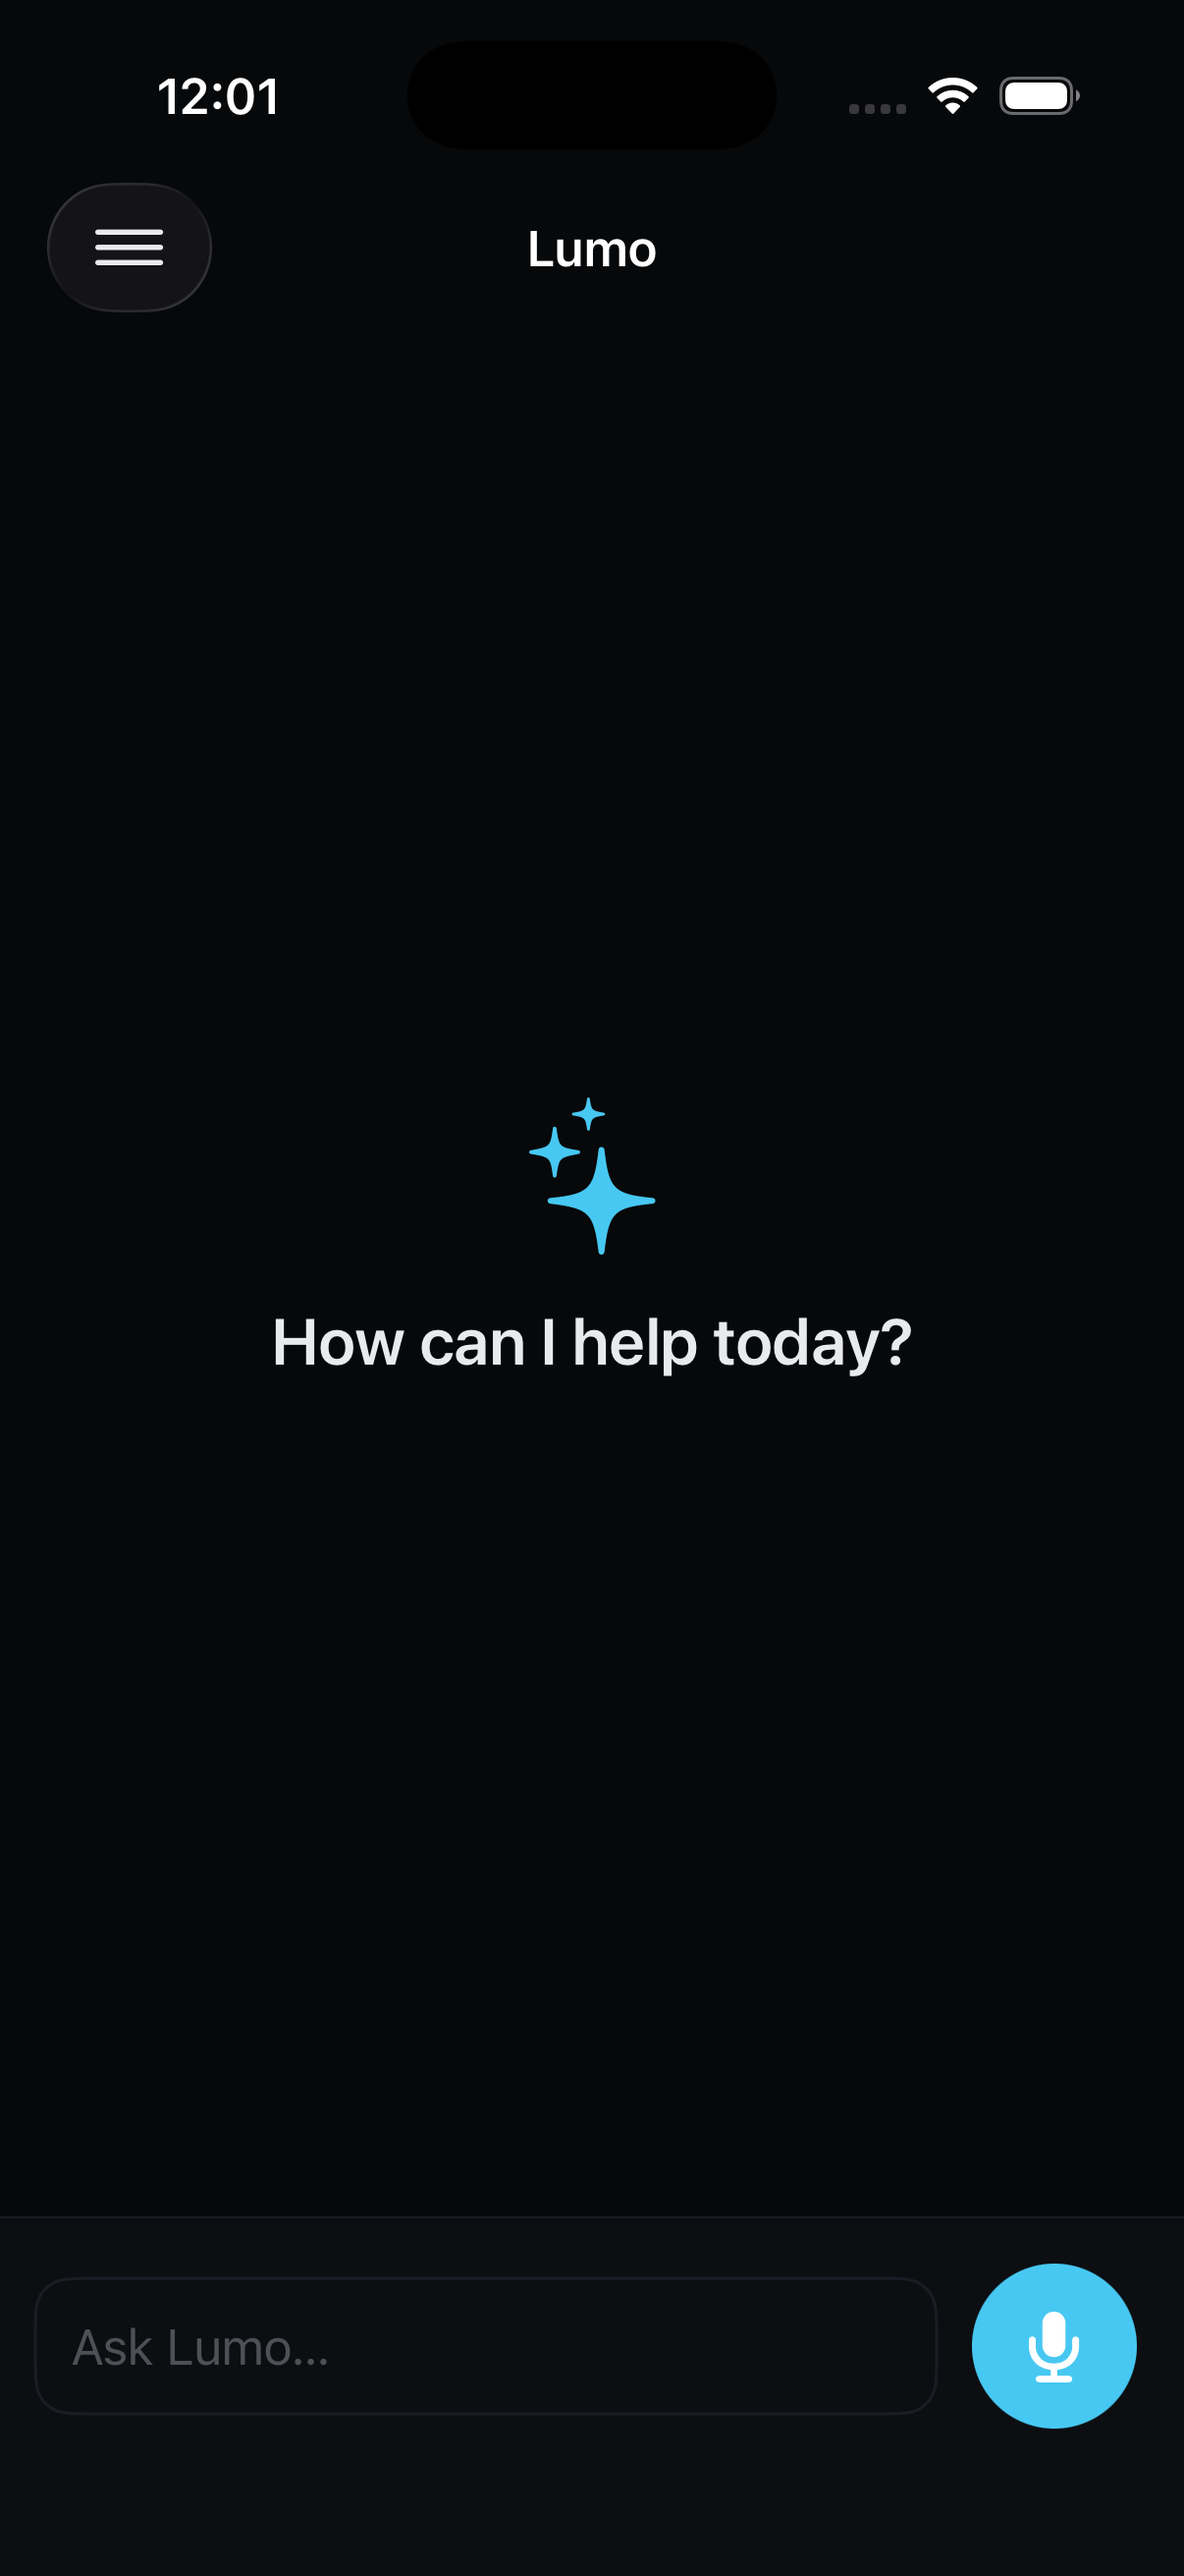
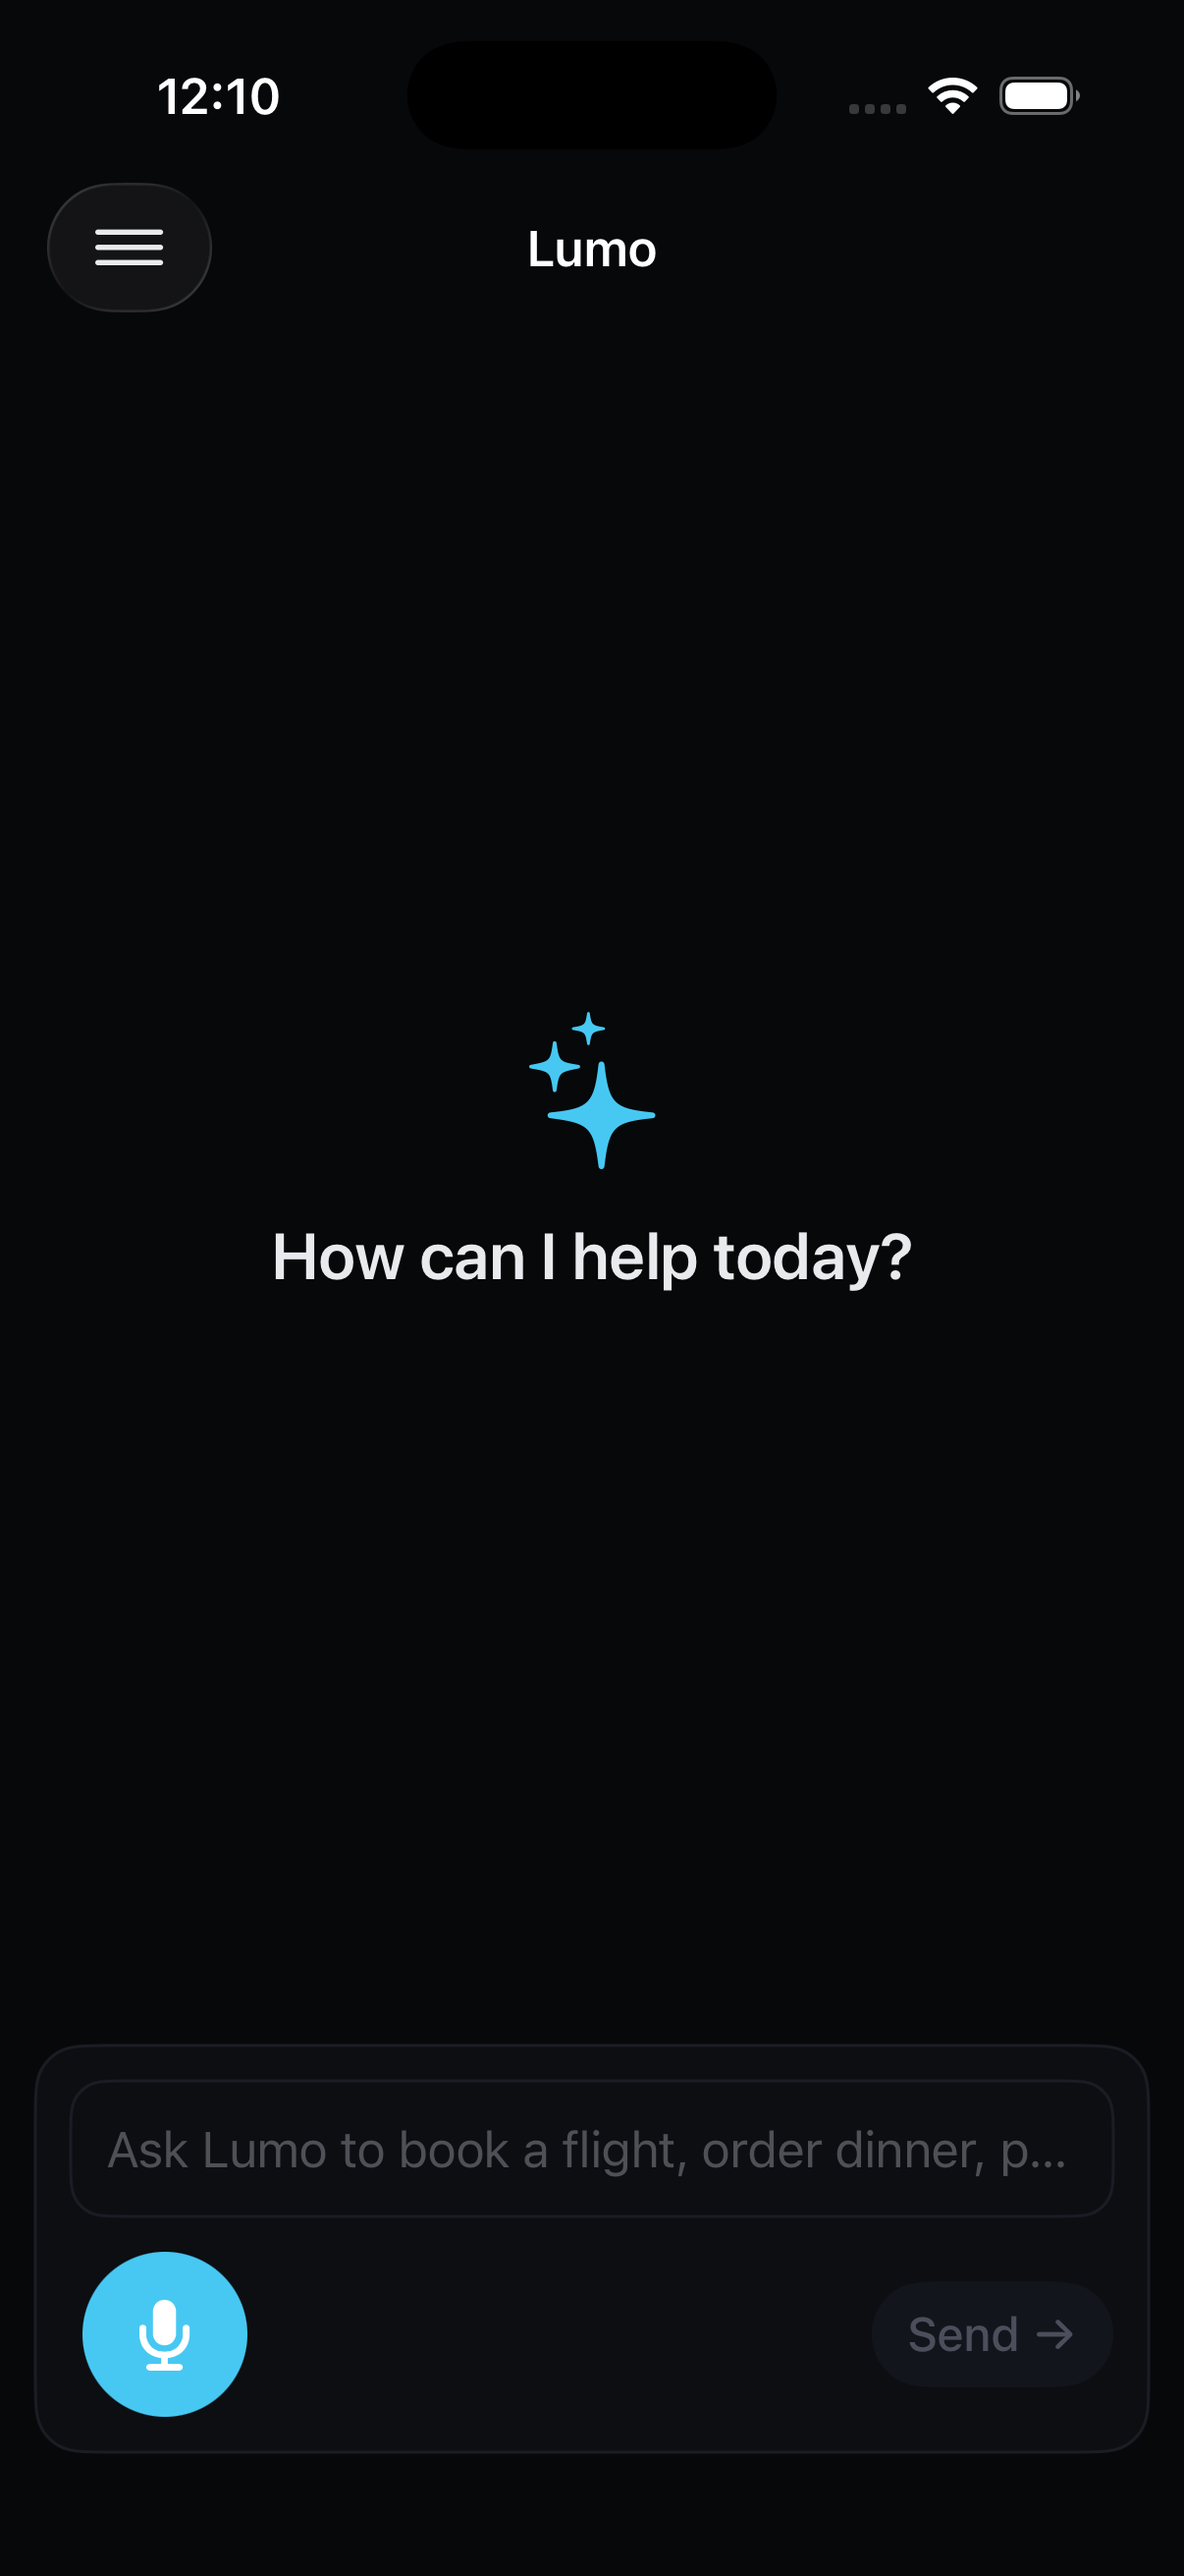
feat(ios): typographic message style + bordered-block composer
Mirrors web's chat shell visual language (apps/web/app/page.tsx):

MessageBubble
  • Assistant: drop the rounded-rect bubble. Render the markdown
    body as prose under a small uppercase "LUMO" label. Matches
    web's "messages are typographic, not bubbled" rule.
  • User: keep right-aligned but in a soft elevated pill
    (LumoElevated) instead of the heavy filled cyanDeep bubble.
    Text reads on the system label color; matches web's lighter
    user-message treatment.

ChatView composer
  • Wrapped the textarea + buttons in a bordered rounded block
    (lg radius + 1px LumoSeparator stroke + LumoSurface fill).
  • Toolbar row beneath the field: mic on the left (always
    available — keeps VOICE-1 push-to-talk), Send pill on the
    right (always rendered, disabled when input is empty or a
    stream is in flight).
  • Send pill uses the inversion pair (bg=label, fg=background)
    so it reads as dark-text-on-light-pill in dark mode and the
    inverse in light mode — same posture as web's
    `bg-lumo-fg text-lumo-bg` Send button.
  • Removed sendButtonBackground (dead code after the swap-pattern
    deletion).

Re-captured the 8 screenshots so the new composer + (eventual)
typographic message style appear in the bundled visuals.

xcodebuild test → 200 still pass.

diff --git a/apps/ios/Lumo/Views/ChatView.swift b/apps/ios/Lumo/Views/ChatView.swift
@@ -200,54 +200,78 @@ struct ChatView: View {
     }
 
     // MARK: - Input bar
+    //
+    // IOS-MIRROR-WEB-1 reshapes the composer to match the web chat
+    // composer (apps/web/app/page.tsx): a bordered rounded block
+    // pinned to the bottom, with the text field on top and an
+    // explicit toolbar row beneath holding mic + Send. Both buttons
+    // are always visible — Send disables when the input is empty or
+    // a stream is in flight, mic stays available for push-to-talk.
 
     private var inputBar: some View {
-        HStack(spacing: LumoSpacing.sm) {
-            LumoTextField(
-                "Ask Lumo…",
-                text: $viewModel.input,
-                submitLabel: .send,
-                onSubmit: { viewModel.send(mode: .text) }
-            )
-            .focused($inputFocused)
+        VStack(spacing: 0) {
+            // Bordered composer block
+            VStack(spacing: 0) {
+                LumoTextField(
+                    "Ask Lumo to book a flight, order dinner, plan a trip…",
+                    text: $viewModel.input,
+                    submitLabel: .send,
+                    onSubmit: { viewModel.send(mode: .text) }
+                )
+                .focused($inputFocused)
+                .padding(.horizontal, LumoSpacing.md)
+                .padding(.top, LumoSpacing.md)
 
-            // Voice button only when the text field is empty — the
-            // common chat-app pattern: type to type, hold to speak.
-            // Once the user has typed anything the button swaps to
-            // the send affordance.
-            if viewModel.input.trimmingCharacters(in: .whitespaces).isEmpty {
-                VoicePushToTalkButton(
-                    isListening: voiceComposer.state.isListening,
-                    isDisabled: viewModel.isStreaming,
-                    onTap: { Task { await voiceComposer.tapToTalk() } },
-                    onLongPressBegan: { Task { await voiceComposer.pressBegan() } },
-                    onLongPressEnded: { voiceComposer.release() }
-                )
-            } else {
-                Button(action: handleSendTap) {
-                    Image(systemName: "paperplane.fill")
-                        .font(.system(size: 17, weight: .semibold))
-                        .foregroundStyle(.white)
-                        .frame(width: 44, height: 44)
-                        .background(sendButtonBackground)
+                // Toolbar row — mic on left, Send on right.
+                HStack(spacing: LumoSpacing.sm) {
+                    VoicePushToTalkButton(
+                        isListening: voiceComposer.state.isListening,
+                        isDisabled: viewModel.isStreaming,
+                        onTap: { Task { await voiceComposer.tapToTalk() } },
+                        onLongPressBegan: { Task { await voiceComposer.pressBegan() } },
+                        onLongPressEnded: { voiceComposer.release() }
+                    )
+
+                    Spacer()
+
+                    Button(action: handleSendTap) {
+                        HStack(spacing: LumoSpacing.xs) {
+                            Text("Send")
+                                .font(LumoFonts.callout.weight(.medium))
+                            Image(systemName: "arrow.right")
+                                .font(.system(size: 13, weight: .semibold))
+                        }
+                        // Inversion pair — bg uses the foreground color
+                        // (label) and text uses the page background.
+                        // Resolves to dark-text-on-light-pill in dark
+                        // mode and light-text-on-dark-pill in light
+                        // mode. Mirrors web's `bg-lumo-fg text-lumo-bg`.
+                        .foregroundStyle(canSend ? LumoColors.background : LumoColors.labelTertiary)
+                        .padding(.horizontal, LumoSpacing.md)
+                        .frame(height: 36)
+                        .background(
+                            Capsule().fill(canSend ? LumoColors.label : LumoColors.surfaceElevated)
+                        )
+                    }
+                    .accessibilityLabel("Send message")
+                    .accessibilityIdentifier("chat.send")
+                    .disabled(!canSend)
                 }
-                .accessibilityLabel("Send message")
-                .accessibilityIdentifier("chat.send")
-                .disabled(!canSend)
+                .padding(.horizontal, LumoSpacing.md)
+                .padding(.vertical, LumoSpacing.sm)
             }
+            .background(
+                RoundedRectangle(cornerRadius: LumoRadius.lg)
+                    .fill(LumoColors.surface)
+            )
+            .overlay(
+                RoundedRectangle(cornerRadius: LumoRadius.lg)
+                    .stroke(LumoColors.separator, lineWidth: 1)
+            )
+            .padding(.horizontal, LumoSpacing.md)
+            .padding(.bottom, LumoSpacing.sm)
         }
-        .padding(LumoSpacing.md)
-        .background(
-            LumoColors.surface
-                .overlay(
-                    Rectangle()
-                        .fill(LumoColors.separator)
-                        .frame(height: 0.5),
-                    alignment: .top
-                )
-                .ignoresSafeArea(edges: .bottom)
-        )
-        .animation(LumoAnimation.quick, value: viewModel.input.isEmpty)
+        .background(LumoColors.background.ignoresSafeArea(edges: .bottom))
     }
 
     // MARK: - Voice → chat handoff
@@ -267,10 +291,6 @@ struct ChatView: View {
 
     private var canSend: Bool {
         !viewModel.input.trimmingCharacters(in: .whitespaces).isEmpty && !viewModel.isStreaming
-    }
-
-    private var sendButtonBackground: some View {
-        Circle().fill(canSend ? LumoColors.cyan : LumoColors.labelTertiary)
     }
 
     private func handleSendTap() {

diff --git a/apps/ios/Lumo/Components/MessageBubble.swift b/apps/ios/Lumo/Components/MessageBubble.swift
@@ -1,8 +1,19 @@
 import SwiftUI
 
-/// A single chat message rendered with role-aware styling. The view
-/// renders plain text by default; pass `markdown: true` to route the
-/// content through the lightweight `MarkdownRenderer`.
+/// A single chat message rendered with role-aware styling.
+///
+/// IOS-MIRROR-WEB-1 changed the visual posture to mirror the web chat
+/// thread (apps/web/app/page.tsx):
+///   • Assistant messages render as prose with a small "Lumo" label
+///     above — no rounded bubble background. Matches web's
+///     "messages are typographic, not bubbled" rule.
+///   • User messages stay right-aligned but in a soft elevated pill
+///     (LumoElevated) instead of the heavy filled cyanDeep bubble,
+///     matching web's lighter user-message treatment.
+///
+/// `userBubble` / `userBubbleText` / `assistantBubble` /
+/// `assistantBubbleText` tokens stay in LumoColors for any external
+/// callers; the values they resolve to drive the new look.
 
 struct MessageBubble: View {
     let message: ChatMessage
@@ -16,6 +27,9 @@ struct MessageBubble: View {
             if message.role == .user { Spacer(minLength: LumoSpacing.xxxl) }
 
             VStack(alignment: message.role == .user ? .trailing : .leading, spacing: LumoSpacing.xxs) {
+                if message.role == .assistant {
+                    assistantHeader
+                }
                 bubble
                 footer
             }
@@ -25,24 +39,41 @@ struct MessageBubble: View {
         .contextMenu { menu }
     }
 
+    /// Small "Lumo" label that sits above each assistant message.
+    /// Matches web's `<div>Lumo</div>` row above the prose body.
+    private var assistantHeader: some View {
+        HStack(spacing: LumoSpacing.xs) {
+            Text("Lumo")
+                .font(LumoFonts.caption.weight(.medium))
+                .foregroundStyle(LumoColors.labelTertiary)
+                .textCase(.uppercase)
+                .tracking(1.2)
+        }
+    }
+
     @ViewBuilder
     private var bubble: some View {
-        Group {
-            if message.role == .assistant {
-                MarkdownRenderer(text: message.text)
-            } else {
-                Text(message.text)
-            }
+        if message.role == .assistant {
+            // Typographic — no background, no padding outside the
+            // text width. Prose flows naturally inside the column.
+            MarkdownRenderer(text: message.text)
+                .font(LumoFonts.body)
+                .foregroundStyle(LumoColors.label)
+                .frame(maxWidth: .infinity, alignment: .leading)
+        } else {
+            // Soft elevated pill for user messages — right-aligned,
+            // muted background instead of saturated cyan-deep.
+            Text(message.text)
+                .font(LumoFonts.body)
+                .foregroundStyle(LumoColors.label)
+                .padding(.horizontal, LumoSpacing.md)
+                .padding(.vertical, LumoSpacing.sm + 2)
+                .background(
+                    RoundedRectangle(cornerRadius: LumoRadius.bubble)
+                        .fill(LumoColors.surfaceElevated)
+                )
+                .frame(maxWidth: .infinity, alignment: .trailing)
         }
-        .font(LumoFonts.body)
-        .foregroundStyle(message.role == .user ? LumoColors.userBubbleText : LumoColors.assistantBubbleText)
-        .padding(.horizontal, LumoSpacing.md)
-        .padding(.vertical, LumoSpacing.sm + 2)
-        .background(
-            RoundedRectangle(cornerRadius: LumoRadius.bubble)
-                .fill(message.role == .user ? LumoColors.userBubble : LumoColors.assistantBubble)
-        )
-        .frame(maxWidth: .infinity, alignment: message.role == .user ? .trailing : .leading)
     }
 
     private var footer: some View {
